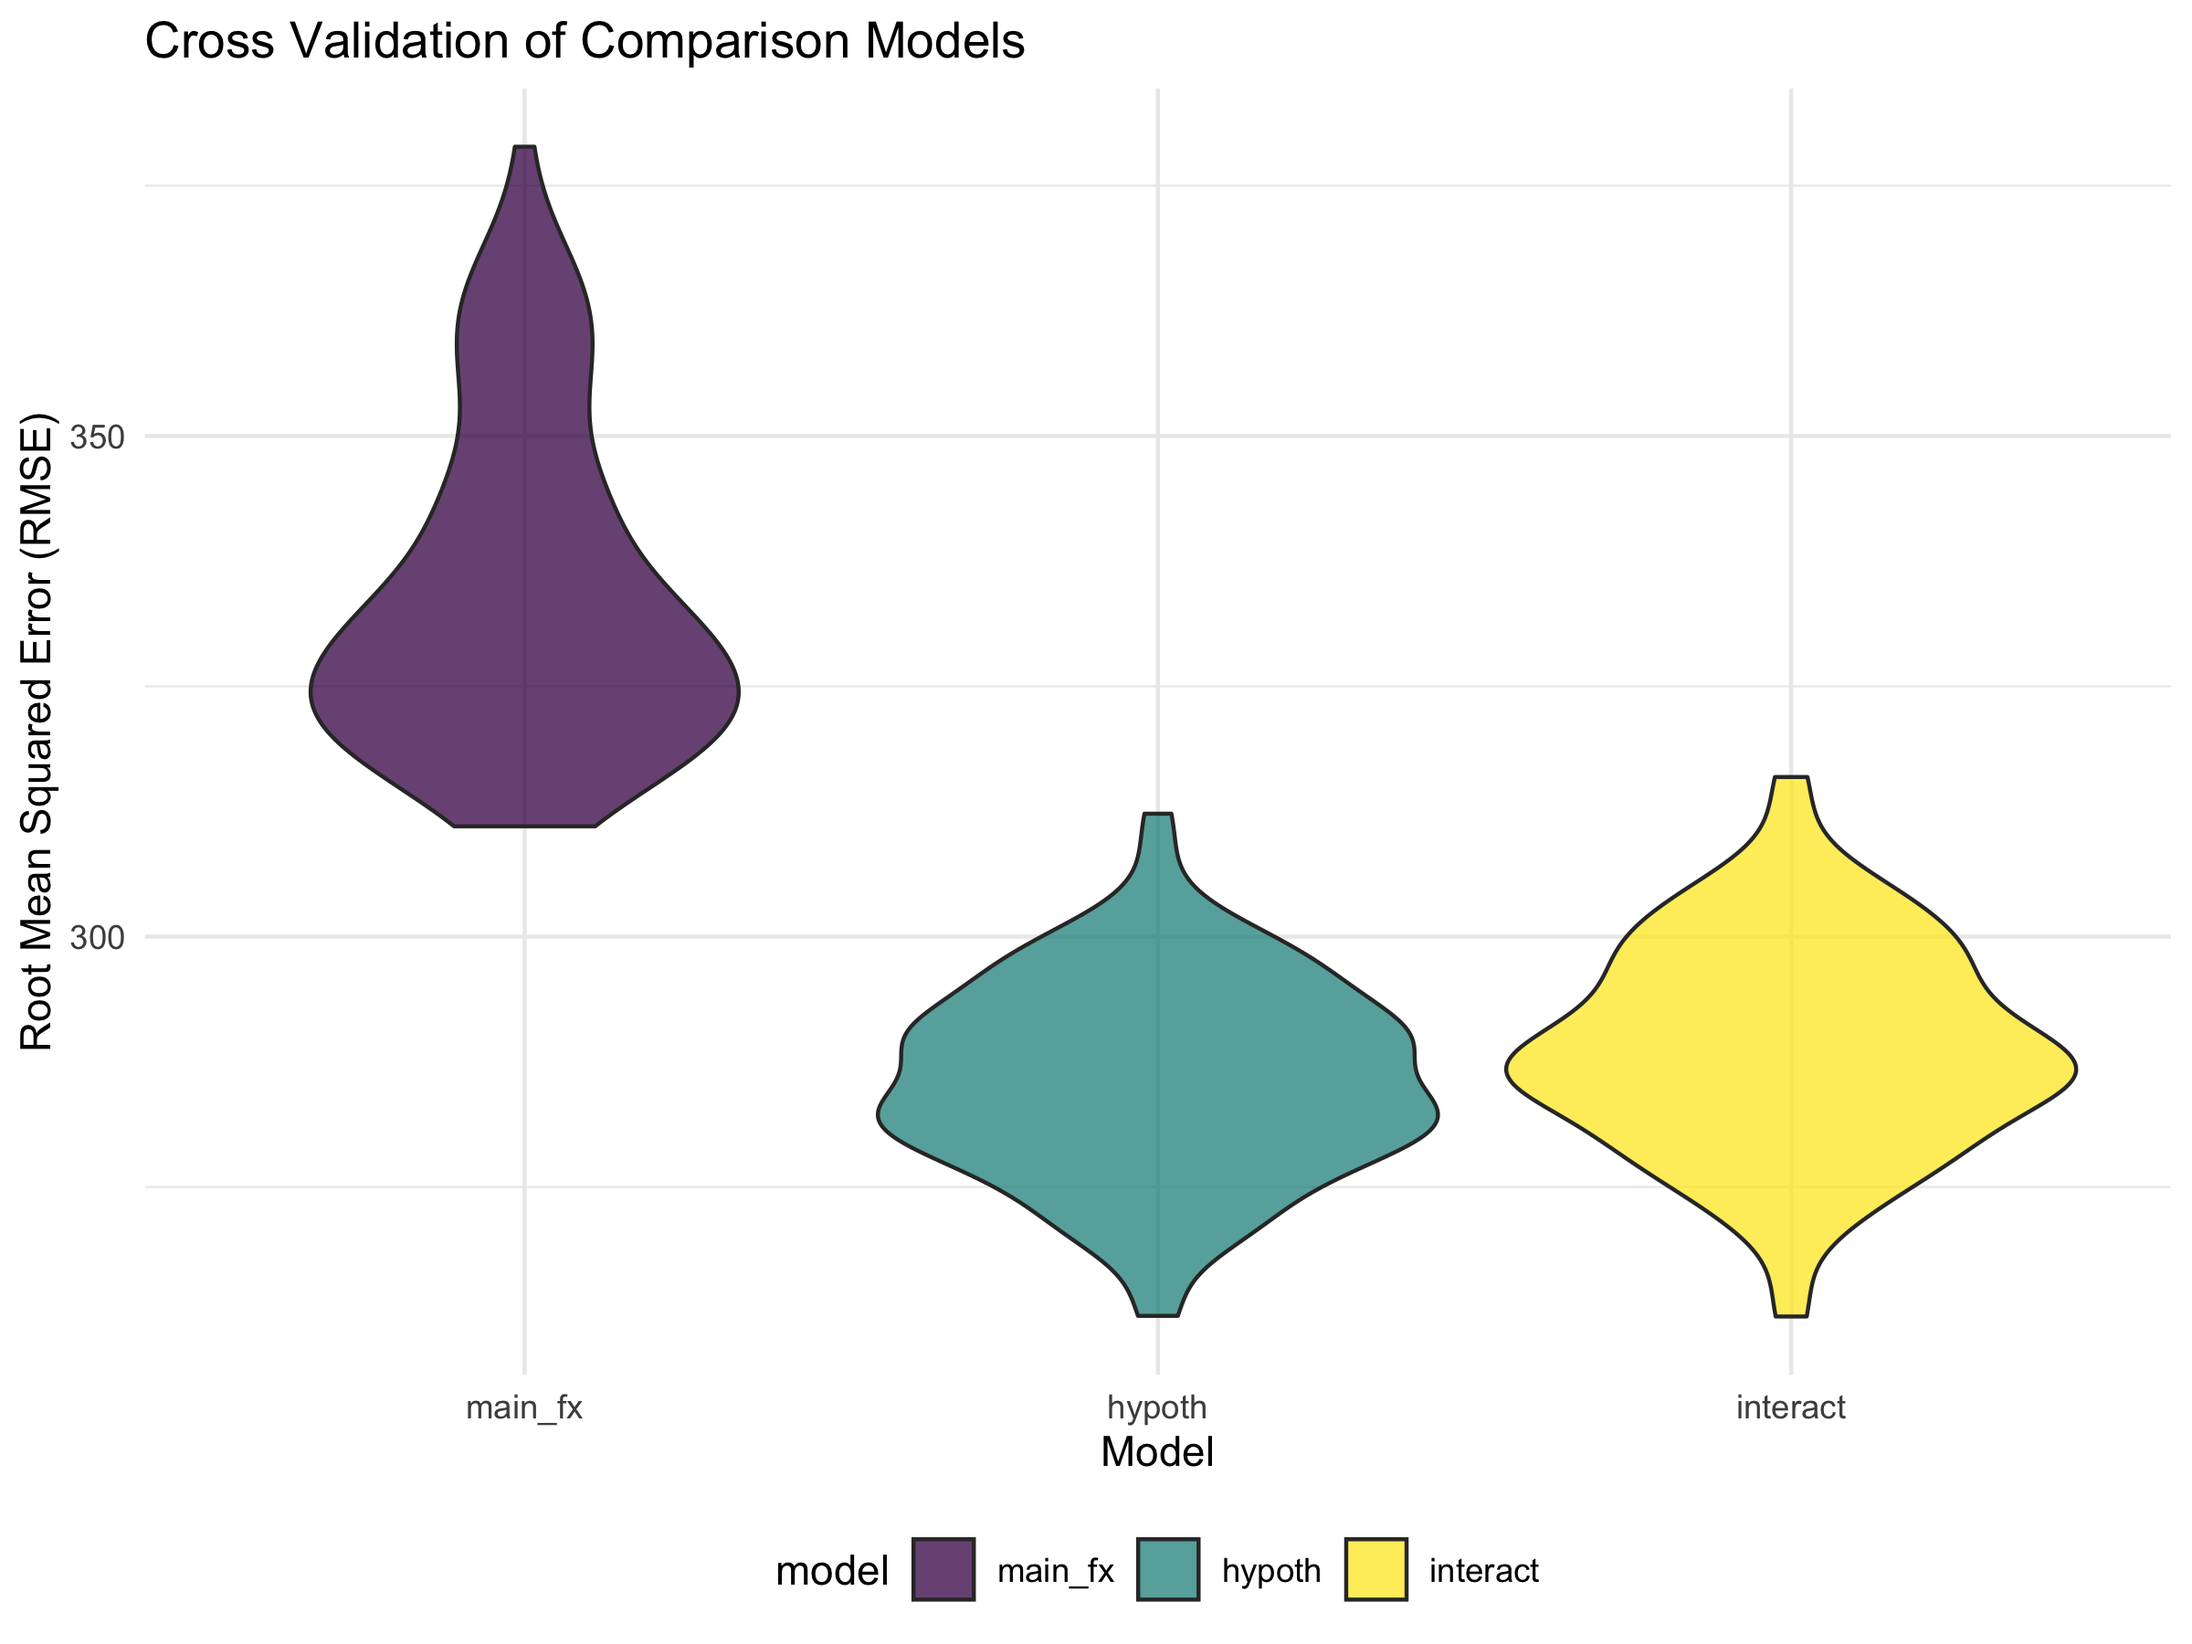
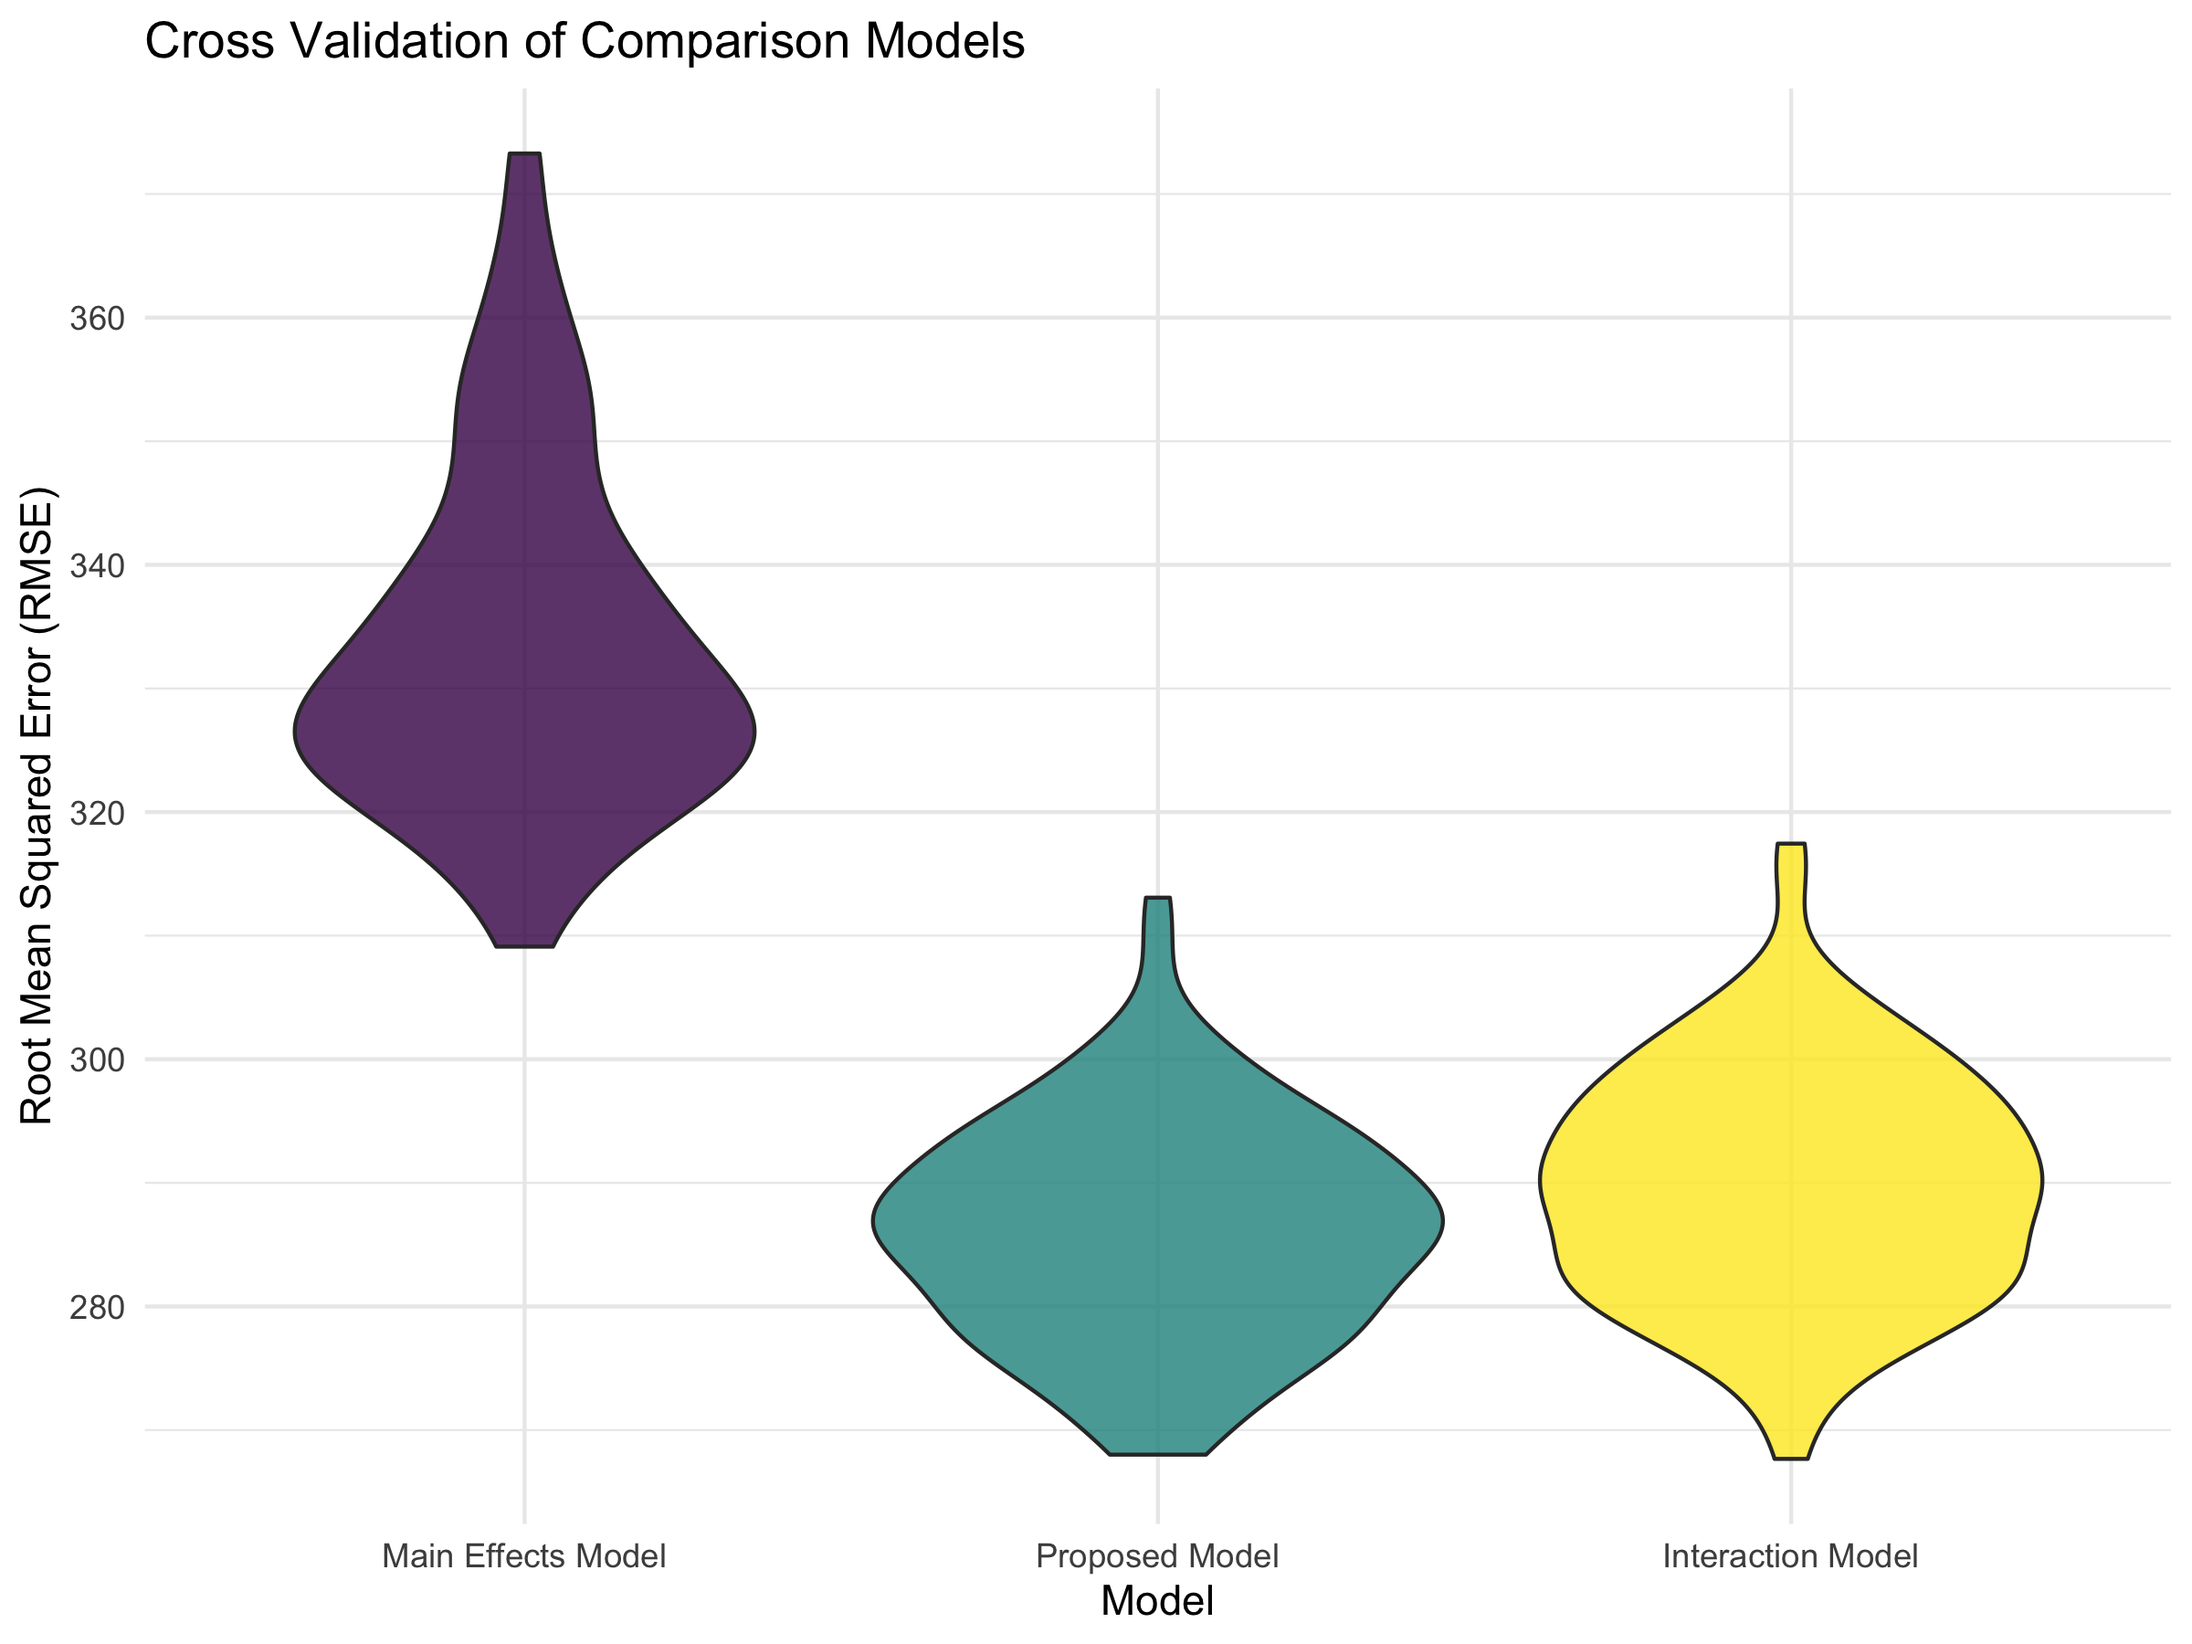
finishing touches

diff --git a/p8105_hw6_jys2137.md b/p8105_hw6_jys2137.md
@@ -62,9 +62,9 @@ Note that in our check for missing data, we can see that there are **no
 
 #### 1.2. Proposing a regression model
 
-`Now`, we develop a regression model for birthweight. The proposed
-regression model for birthweight is based on a hypothesized structure
-for the factors that underly birthweight (`bwt`):
+Now, we develop a regression model for birthweight. The proposed
+regression model for birthweight is based on a ***hypothesized
+structure*** for the factors that underly birthweight (`bwt`):
 
 -   `babysex`: baby’s sex - birthweight could be greater in male vs
     female;
@@ -73,15 +73,10 @@ for the factors that underly birthweight (`bwt`):
     with length;
 -   `gaweeks`: gestational age in weeks - birthweight could increase
     with age;
--   `malform`: presence of malformations that could affect weight;
--   `momage`: mother’s age at delivery (years) - birthweight could
-    decrease with increasing maternal age;
 -   `parity`: number of live births prior to this pregnancy -
     birthweight could decrease with increasing number
 -   `smoken`: average number of cigarettes smoked per day during
     pregnancy
--   `wtgain`: mother’s weight gain during pregnancy (kg) - birthweight
-    could increase with increasing maternal weight gain
 
 ``` r
 hypoth_model = 
@@ -115,7 +110,7 @@ birthweight_df %>%
   geom_smooth(se = FALSE) +
   geom_hline(yintercept = 0, color = "red", size = 1, linetype = 2) +
   labs(
-    title = "Model Residuals Against Fitted Values",
+    title = "Model Residuals vs Fitted Values",
     x = "Fitted Values",
     y = "Residuals")
 ```
@@ -123,22 +118,6 @@ birthweight_df %>%
     ## `geom_smooth()` using method = 'gam' and formula 'y ~ s(x, bs = "cs")'
 
 <img src="p8105_hw6_jys2137_files/figure-gfm/residual_fitted_ plot-1.png" width="90%" />
-
-``` r
-hyp_mod = lm(bwt ~ gaweeks + malform + momage + wtgain, data = birthweight_df)
-main_fx_mod = lm(bwt ~ blength + gaweeks, data = birthweight_df)
-interact_mod = lm(bwt ~ bhead + blength + babysex + (bhead * blength) + (bhead * babysex) + (bhead * blength * babysex), data = birthweight_df)
-hyp_mod %>% broom::tidy()
-```
-
-    ## # A tibble: 5 × 5
-    ##   term           estimate std.error statistic   p.value
-    ##   <chr>             <dbl>     <dbl>     <dbl>     <dbl>
-    ## 1 (Intercept)      241.      90.3       2.67  7.61e-  3
-    ## 2 gaweeks           60.0      2.22     27.0   3.01e-148
-    ## 3 malformpresent   -43.6    117.       -0.372 7.10e-  1
-    ## 4 momage            14.8      1.80      8.21  2.83e- 16
-    ## 5 wtgain             9.48     0.640    14.8   1.66e- 48
 
 As shown in the plot of model residuals against fitted values, most
 residuals are dispersed rather evenly around 0. This cluster indicates a
@@ -154,7 +133,7 @@ problem).
 
 #### 1.3. Comparing regression models
 
-Next, we compare our model to two others:
+Next, we compare our model to **two others**:
 
 1.  One using `blength` and `gaweeks` as predictors (**main effects
     only**)
@@ -171,7 +150,7 @@ crossv_df =
   mutate(
     main_fx_model = map(train, ~lm(bwt ~ blength + gaweeks, data = .x)),
     hypoth_model = map(train, ~lm(bwt ~ babysex + bhead + blength + gaweeks + parity + smoken, data = .x)),
-    interact_model = map(train, ~lm(bwt ~ bhead + blength + babysex + (bhead * blength) + (bhead * babysex) + (bhead * blength * babysex), data = .x))) %>% 
+    interact_model = map(train, ~lm(bwt ~ bhead + blength + babysex + (bhead * blength) + (bhead * babysex) + (blength * babysex) + (bhead * blength * babysex), data = .x))) %>% 
   mutate(
     rmse_main_fx = map2_dbl(main_fx_model, test, rmse),
     rmse_hypoth = map2_dbl(hypoth_model, test, rmse),
@@ -186,14 +165,31 @@ crossv_df %>%
     names_prefix = "rmse_") %>% 
   mutate(model = fct_inorder(model)) %>% 
   ggplot(aes(x = model, y = rmse, fill = model)) + 
-    geom_violin(alpha = 0.75) +
+    geom_violin(alpha = 0.80) +
     labs(
         title = "Cross Validation of Comparison Models",
         x = "Model",
-        y = "Root Mean Squared Error (RMSE)")
+        y = "Root Mean Squared Error (RMSE)") +
+    scale_x_discrete(labels = c(
+      "main_fx" = "Main Effects Model", 
+      "hypoth" = "Proposed Model",
+      "interact" = "Interaction Model")) +
+    theme(legend.position = "none")
 ```
 
 <img src="p8105_hw6_jys2137_files/figure-gfm/comparing_models-1.png" width="90%" />
+
+The violin plot of RMSE illustrates that our **proposed model** actually
+has the lowest root mean squared error in comparison with the other two
+models, making it the best fit model among the three. Note that it only
+has a *very slightly* lower RMSE than the **interaction model**
+(`bhead`, `blength`, and `babysex`and *all interactions*), while it is a
+much better fit than the **main effects model** (with `blength` and
+`gaweeks`), which had the highest root mean squared error.
+
+This suggests that the best predictors to use are the *baby’s sex*,
+*head circumference*, *length*, *gestational age*, as well as *parity*
+and *maternal smoking while pregnant*.
 
 ### Problem 2
 
